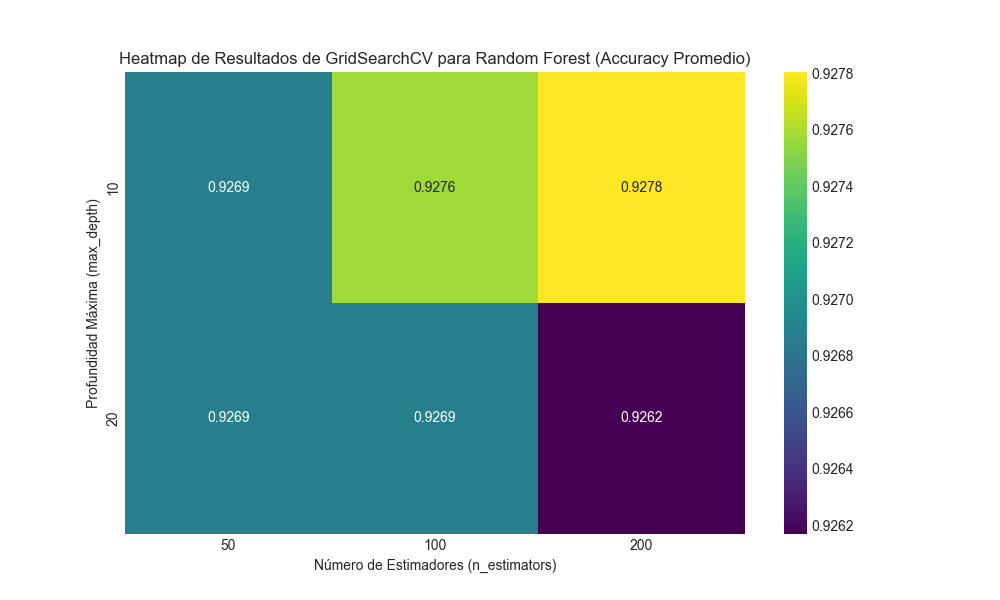
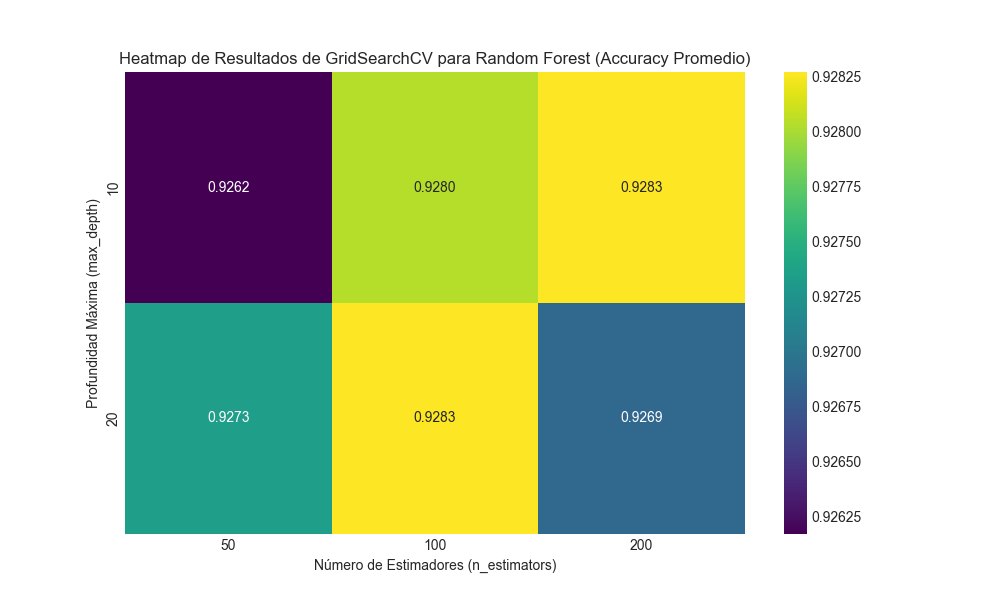
Data Leakage Repair

diff --git a/src/medicalcost/pipelines/model_classification/nodes.py b/src/medicalcost/pipelines/model_classification/nodes.py
@@ -3,7 +3,7 @@ import numpy as np
 import seaborn as sns
 import matplotlib.pyplot as plt
 from matplotlib.figure import Figure
-from sklearn.model_selection import train_test_split, GridSearchCV
+from sklearn.model_selection import train_test_split, GridSearchCV, StratifiedKFold
 from sklearn.metrics import accuracy_score, confusion_matrix, classification_report
 from sklearn.linear_model import LogisticRegression
 from sklearn.ensemble import RandomForestClassifier
@@ -14,25 +14,47 @@ from sklearn.pipeline import Pipeline
 import json
 
 
-def preprocess_classification_data(df_raw: pd.DataFrame) -> pd.DataFrame:
-    """Preprocesses the data for classification by creating a binary target variable.
+def feature_engineering_for_classification(
+    featured_medical_data: pd.DataFrame,
+) -> pd.DataFrame:
+    """Prepares the data for classification by selecting features.
+    This node now passes the data through, as feature engineering (dummies)
+    is already done in a previous pipeline. It mainly ensures the 'charges'
+    column is present for the next step.
 
     Args:
-        df_raw: The featured medical insurance data (with dummy variables).
+        featured_medical_data: The featured medical insurance data (with dummy variables).
 
     Returns:
-        The DataFrame with the 'cost_category' target and 'charges' dropped.
+        The DataFrame ready for splitting.
     """
-    df_clasificacion = df_raw.copy()
-    umbral_costo = df_clasificacion["charges"].median()
-    df_clasificacion["cost_category"] = np.where(
-        df_clasificacion["charges"] > umbral_costo, "Alto", "Bajo"
-    )
-    df_clasificacion["cost_category"] = df_clasificacion["cost_category"].map(
-        {"Bajo": 0, "Alto": 1}
-    )
-    df_clasificacion = df_clasificacion.drop("charges", axis=1)
-    return df_clasificacion
+    return featured_medical_data.copy()
+
+
+def create_target_variable(
+    cls_y_train: pd.Series, cls_y_test: pd.Series
+) -> tuple[pd.Series, pd.Series]:
+    """
+    Creates the binary target variable based on the median of the training set
+    to prevent data leakage.
+
+    Args:
+        cls_y_train: The 'charges' Series for the training set.
+        cls_y_test: The 'charges' Series for the test set.
+
+    Returns:
+        A tuple containing:
+            - cls_y_train_binary (Series): Binary target for training.
+            - cls_y_test_binary (Series): Binary target for testing.
+    """
+    # Calculate threshold ONLY from the training data
+    cost_threshold = cls_y_train.median()
+
+    # Apply threshold to both train and test sets
+    cls_y_train_binary = (cls_y_train > cost_threshold).astype(int)
+    cls_y_test_binary = (cls_y_test > cost_threshold).astype(int)
+
+    return cls_y_train_binary, cls_y_test_binary
 
 
 def split_classification_data(
@@ -47,15 +69,18 @@ def split_classification_data(
         A tuple containing:
             - cls_X_train (DataFrame): Training features.
             - cls_X_test (DataFrame): Testing features.
-            - cls_y_train (Series): Actual training targets.
-            - cls_y_test (Series): Actual testing targets.
+            - cls_y_train (Series): Actual training targets (charges).
+            - cls_y_test (Series): Actual testing targets (charges).
             - X (DataFrame): All features used for training.
-            - y (Series): All targets used for training.
+            - y (Series): All targets used for training (charges).
     """
-    X = df_model_cls.drop("cost_category", axis=1)
-    y = df_model_cls["cost_category"]
+    X = df_model_cls.drop("charges", axis=1)
+    y = df_model_cls["charges"]
+    # Stratify is not needed here as we are splitting based on X and continuous y
+    # It will be applied on the binary target later if needed, but train_test_split
+    # is robust enough for this.
     cls_X_train, cls_X_test, cls_y_train, cls_y_test = train_test_split(
-        X, y, test_size=0.2, random_state=42, stratify=y
+        X, y, test_size=0.2, random_state=42
     )
     return cls_X_train, cls_X_test, cls_y_train, cls_y_test, X, y
 
@@ -63,8 +88,8 @@ def split_classification_data(
 def train_and_evaluate_logistic_regression(
     cls_X_train: pd.DataFrame,
     cls_X_test: pd.DataFrame,
-    cls_y_train: pd.Series,
-    cls_y_test: pd.Series,
+    cls_y_train_binary: pd.Series,
+    cls_y_test_binary: pd.Series,
     X: pd.DataFrame,
 ) -> tuple[LogisticRegression, float, str, pd.DataFrame, Figure]:
     """Trains and evaluates a Logistic Regression model.
@@ -72,8 +97,8 @@ def train_and_evaluate_logistic_regression(
     Args:
         cls_X_train: Training features.
         cls_X_test: Testing features.
-        cls_y_train: Actual training targets.
-        cls_y_test: Actual testing targets.
+        cls_y_train_binary: Actual training targets.
+        cls_y_test_binary: Actual testing targets.
         X: All features used for training.
 
     Returns:
@@ -85,12 +110,14 @@ def train_and_evaluate_logistic_regression(
             - fig_feature_importance (Figure): Feature importance plot.
     """
     log_model = LogisticRegression(max_iter=1000, random_state=42)
-    log_model.fit(cls_X_train, cls_y_train)
+    log_model.fit(cls_X_train, cls_y_train_binary)
     y_pred_log = log_model.predict(cls_X_test)
 
-    accuracy_log = float(accuracy_score(cls_y_test, y_pred_log))
+    accuracy_log = float(accuracy_score(cls_y_test_binary, y_pred_log))
     classification_report_str = str(
-        classification_report(cls_y_test, y_pred_log, target_names=["Bajo", "Alto"])
+        classification_report(
+            cls_y_test_binary, y_pred_log, target_names=["Bajo", "Alto"]
+        )
     )
 
     coefficients = log_model.coef_[0]
@@ -123,16 +150,16 @@ def train_and_evaluate_logistic_regression(
 def train_and_evaluate_random_forest(
     cls_X_train: pd.DataFrame,
     cls_X_test: pd.DataFrame,
-    cls_y_train: pd.Series,
-    cls_y_test: pd.Series,
+    cls_y_train_binary: pd.Series,
+    cls_y_test_binary: pd.Series,
 ) -> tuple[RandomForestClassifier, float, str, Figure]:
     """Trains and evaluates a Random Forest model using GridSearchCV.
 
     Args:
         cls_X_train: Training features.
         cls_X_test: Testing features.
-        cls_y_train: Actual training targets.
-        cls_y_test: Actual testing targets.
+        cls_y_train_binary: Actual training targets.
+        cls_y_test_binary: Actual testing targets.
 
     Returns:
         A tuple containing:
@@ -148,21 +175,26 @@ def train_and_evaluate_random_forest(
         "min_samples_leaf": [1, 2],
     }
 
+    # Definir la estrategia de validación cruzada para que sea reproducible
+    cv_strategy = StratifiedKFold(n_splits=5, shuffle=True, random_state=42)
+
     grid_search_rf = GridSearchCV(
         estimator=RandomForestClassifier(random_state=42),
         param_grid=param_grid_rf,
-        cv=5,
+        cv=cv_strategy,
         n_jobs=-1,
         verbose=0,
     )
-    grid_search_rf.fit(cls_X_train, cls_y_train)
+    grid_search_rf.fit(cls_X_train, cls_y_train_binary)
 
     best_rf_model = grid_search_rf.best_estimator_
     y_pred_best_rf = best_rf_model.predict(cls_X_test)
 
-    accuracy_best_rf = float(accuracy_score(cls_y_test, y_pred_best_rf))
+    accuracy_best_rf = float(accuracy_score(cls_y_test_binary, y_pred_best_rf))
     classification_report_str = str(
-        classification_report(cls_y_test, y_pred_best_rf, target_names=["Bajo", "Alto"])
+        classification_report(
+            cls_y_test_binary, y_pred_best_rf, target_names=["Bajo", "Alto"]
+        )
     )
 
     results_rf = pd.DataFrame(grid_search_rf.cv_results_)
@@ -184,16 +216,16 @@ def train_and_evaluate_random_forest(
 def train_and_evaluate_xgboost(
     cls_X_train: pd.DataFrame,
     cls_X_test: pd.DataFrame,
-    cls_y_train: pd.Series,
-    cls_y_test: pd.Series,
+    cls_y_train_binary: pd.Series,
+    cls_y_test_binary: pd.Series,
 ) -> tuple[XGBClassifier, float, str, Figure]:
     """Trains and evaluates an XGBoost model using GridSearchCV.
 
     Args:
         cls_X_train: Training features.
         cls_X_test: Testing features.
-        cls_y_train: Actual training targets.
-        cls_y_test: Actual testing targets.
+        cls_y_train_binary: Actual training targets.
+        cls_y_test_binary: Actual testing targets.
 
     Returns:
         A tuple containing:
@@ -209,22 +241,25 @@ def train_and_evaluate_xgboost(
         "subsample": [0.8, 1.0],
     }
 
+    # Definir la estrategia de validación cruzada para que sea reproducible
+    cv_strategy = StratifiedKFold(n_splits=5, shuffle=True, random_state=42)
+
     grid_search_xgb = GridSearchCV(
         estimator=XGBClassifier(random_state=42, eval_metric="logloss"),
         param_grid=param_grid_xgb,
-        cv=5,
+        cv=cv_strategy,
         n_jobs=-1,
         verbose=0,
     )
-    grid_search_xgb.fit(cls_X_train, cls_y_train)
+    grid_search_xgb.fit(cls_X_train, cls_y_train_binary)
 
     best_xgb_model = grid_search_xgb.best_estimator_
     y_pred_best_xgb = best_xgb_model.predict(cls_X_test)
 
-    accuracy_best_xgb = float(accuracy_score(cls_y_test, y_pred_best_xgb))
+    accuracy_best_xgb = float(accuracy_score(cls_y_test_binary, y_pred_best_xgb))
     classification_report_str = str(
         classification_report(
-            cls_y_test, y_pred_best_xgb, target_names=["Bajo", "Alto"]
+            cls_y_test_binary, y_pred_best_xgb, target_names=["Bajo", "Alto"]
         )
     )
 
@@ -249,16 +284,16 @@ def train_and_evaluate_xgboost(
 def train_and_evaluate_svc(
     cls_X_train: pd.DataFrame,
     cls_X_test: pd.DataFrame,
-    cls_y_train: pd.Series,
-    cls_y_test: pd.Series,
+    cls_y_train_binary: pd.Series,
+    cls_y_test_binary: pd.Series,
 ) -> tuple[Pipeline, float, str, Figure]:
     """Trains and evaluates an SVC model using GridSearchCV.
 
     Args:
         cls_X_train: Training features.
         cls_X_test: Testing features.
-        cls_y_train: Actual training targets.
-        cls_y_test: Actual testing targets.
+        cls_y_train_binary: Actual training targets.
+        cls_y_test_binary: Actual testing targets.
 
     Returns:
         A tuple containing:
@@ -273,18 +308,21 @@ def train_and_evaluate_svc(
 
     param_grid_svc = {"svc__C": [0.1, 1, 10], "svc__gamma": ["scale", "auto", 0.1, 1]}
 
+    # Definir la estrategia de validación cruzada para que sea reproducible
+    cv_strategy = StratifiedKFold(n_splits=5, shuffle=True, random_state=42)
+
     grid_search_svc = GridSearchCV(
-        pipeline_svc, param_grid_svc, cv=5, n_jobs=-1, verbose=0
+        pipeline_svc, param_grid_svc, cv=cv_strategy, n_jobs=-1, verbose=0
     )
-    grid_search_svc.fit(cls_X_train, cls_y_train)
+    grid_search_svc.fit(cls_X_train, cls_y_train_binary)
 
     best_svc_model = grid_search_svc.best_estimator_
     y_pred_best_svc = best_svc_model.predict(cls_X_test)
 
-    accuracy_best_svc = float(accuracy_score(cls_y_test, y_pred_best_svc))
+    accuracy_best_svc = float(accuracy_score(cls_y_test_binary, y_pred_best_svc))
     classification_report_str = str(
         classification_report(
-            cls_y_test, y_pred_best_svc, target_names=["Bajo", "Alto"]
+            cls_y_test_binary, y_pred_best_svc, target_names=["Bajo", "Alto"]
         )
     )
 

diff --git a/src/medicalcost/pipelines/model_classification/pipeline.py b/src/medicalcost/pipelines/model_classification/pipeline.py
@@ -1,8 +1,9 @@
 from kedro.pipeline import Pipeline, node, pipeline
 
 from .nodes import (
-    preprocess_classification_data,
+    feature_engineering_for_classification,
     split_classification_data,
+    create_target_variable,
     train_and_evaluate_logistic_regression,
     train_and_evaluate_random_forest,
     train_and_evaluate_xgboost,
@@ -15,31 +16,40 @@ def create_pipeline(**kwargs) -> Pipeline:
     return pipeline(
         [
             node(
-                func=preprocess_classification_data,
+                func=feature_engineering_for_classification,
                 inputs="featured_medical_data",
-                outputs="classification_input_data_with_target",
-                name="preprocess_classification_data_node",
+                outputs="classification_input_data",
+                name="feature_engineering_for_classification_node",
             ),
             node(
                 func=split_classification_data,
-                inputs="classification_input_data_with_target",
+                inputs="classification_input_data",
                 outputs=[
                     "cls_X_train",
                     "cls_X_test",
                     "cls_y_train",
                     "cls_y_test",
                     "X_cls",
-                    "y_cls",
+                    "y_cls",  # This now contains 'charges'
                 ],
                 name="split_classification_data_node",
+            ),
+            node(
+                func=create_target_variable,
+                inputs=["cls_y_train", "cls_y_test"],
+                outputs=[
+                    "cls_y_train_binary",
+                    "cls_y_test_binary",
+                ],
+                name="create_target_variable_node",
             ),
             node(
                 func=train_and_evaluate_logistic_regression,
                 inputs=[
                     "cls_X_train",
                     "cls_X_test",
-                    "cls_y_train",
-                    "cls_y_test",
+                    "cls_y_train_binary",
+                    "cls_y_test_binary",
                     "X_cls",
                 ],
                 outputs=[
@@ -53,7 +63,12 @@ def create_pipeline(**kwargs) -> Pipeline:
             ),
             node(
                 func=train_and_evaluate_random_forest,
-                inputs=["cls_X_train", "cls_X_test", "cls_y_train", "cls_y_test"],
+                inputs=[
+                    "cls_X_train",
+                    "cls_X_test",
+                    "cls_y_train_binary",
+                    "cls_y_test_binary",
+                ],
                 outputs=[
                     "random_forest_model",
                     "classification_accuracy_rf",
@@ -64,7 +79,12 @@ def create_pipeline(**kwargs) -> Pipeline:
             ),
             node(
                 func=train_and_evaluate_xgboost,
-                inputs=["cls_X_train", "cls_X_test", "cls_y_train", "cls_y_test"],
+                inputs=[
+                    "cls_X_train",
+                    "cls_X_test",
+                    "cls_y_train_binary",
+                    "cls_y_test_binary",
+                ],
                 outputs=[
                     "xgboost_model",
                     "classification_accuracy_xgb",
@@ -75,7 +95,12 @@ def create_pipeline(**kwargs) -> Pipeline:
             ),
             node(
                 func=train_and_evaluate_svc,
-                inputs=["cls_X_train", "cls_X_test", "cls_y_train", "cls_y_test"],
+                inputs=[
+                    "cls_X_train",
+                    "cls_X_test",
+                    "cls_y_train_binary",
+                    "cls_y_test_binary",
+                ],
                 outputs=[
                     "svc_model",
                     "classification_accuracy_svc",

diff --git a/src/medicalcost/pipelines/model_classification/__init__.py b/src/medicalcost/pipelines/model_classification/__init__.py
@@ -1,7 +1,3 @@
-"""
-Pipeline de modelado de clasificacion (model_classification).
-"""
-
 from .pipeline import create_pipeline
 
 __all__ = ["create_pipeline"]
